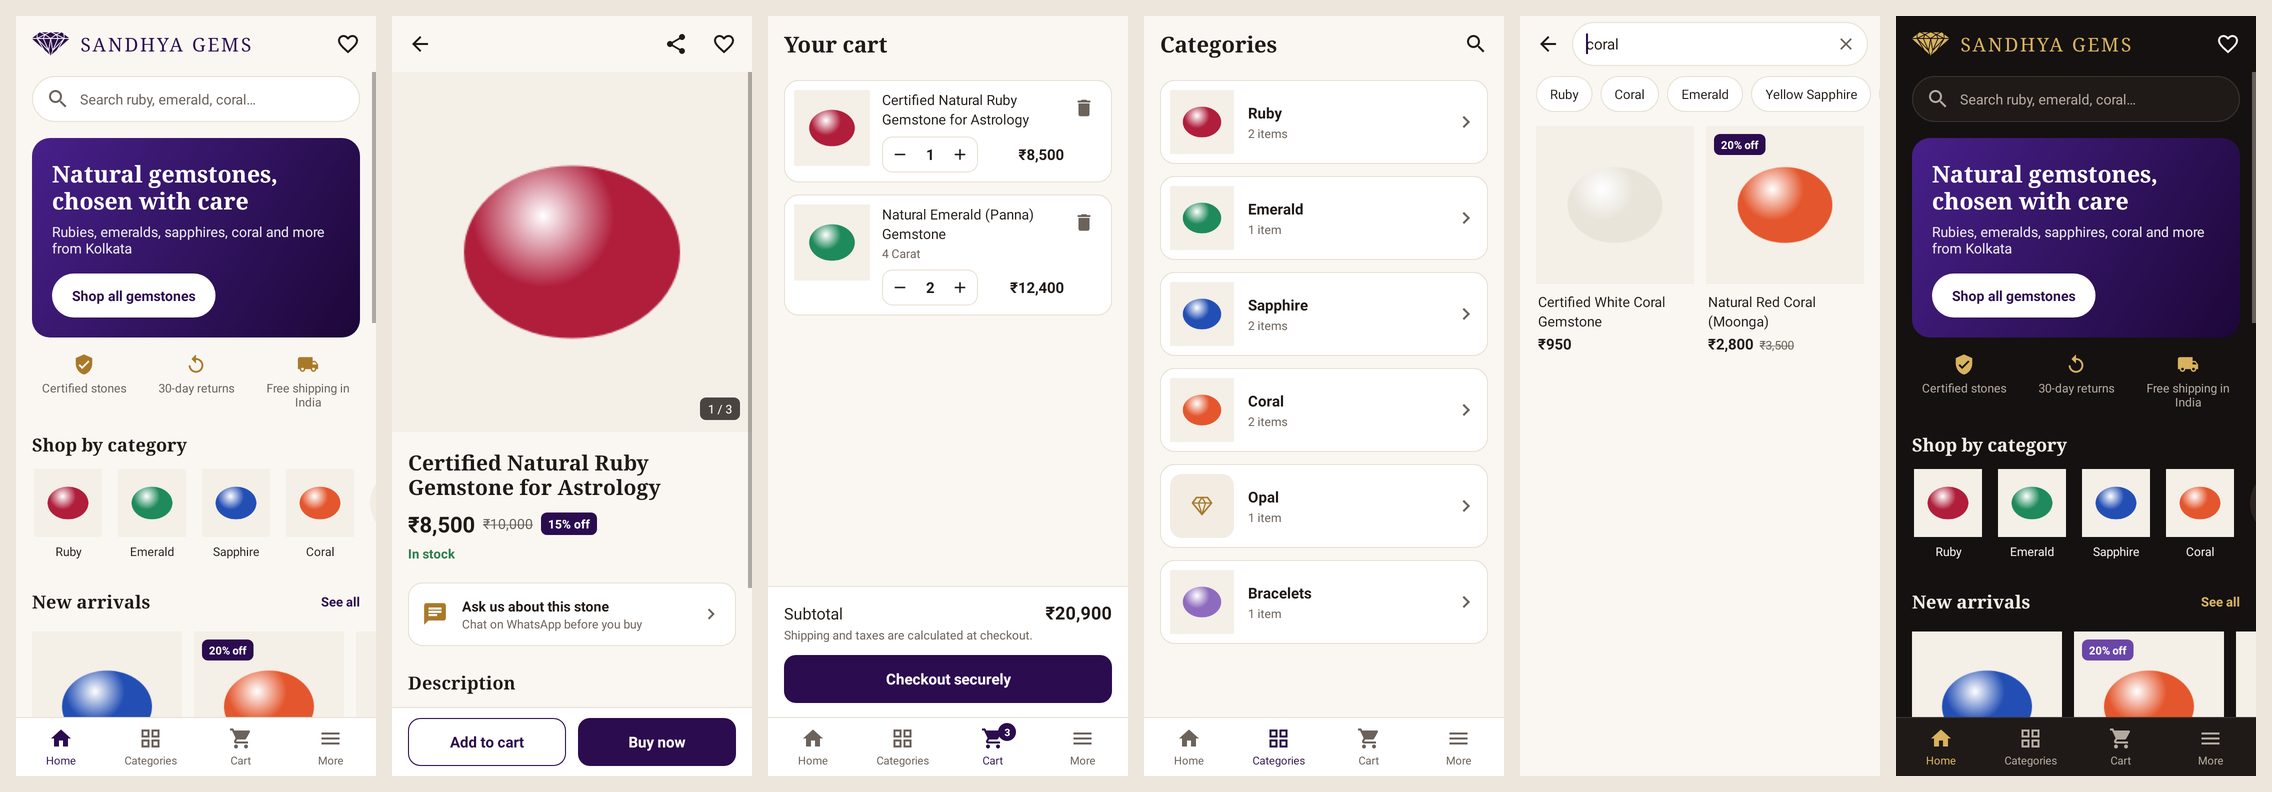
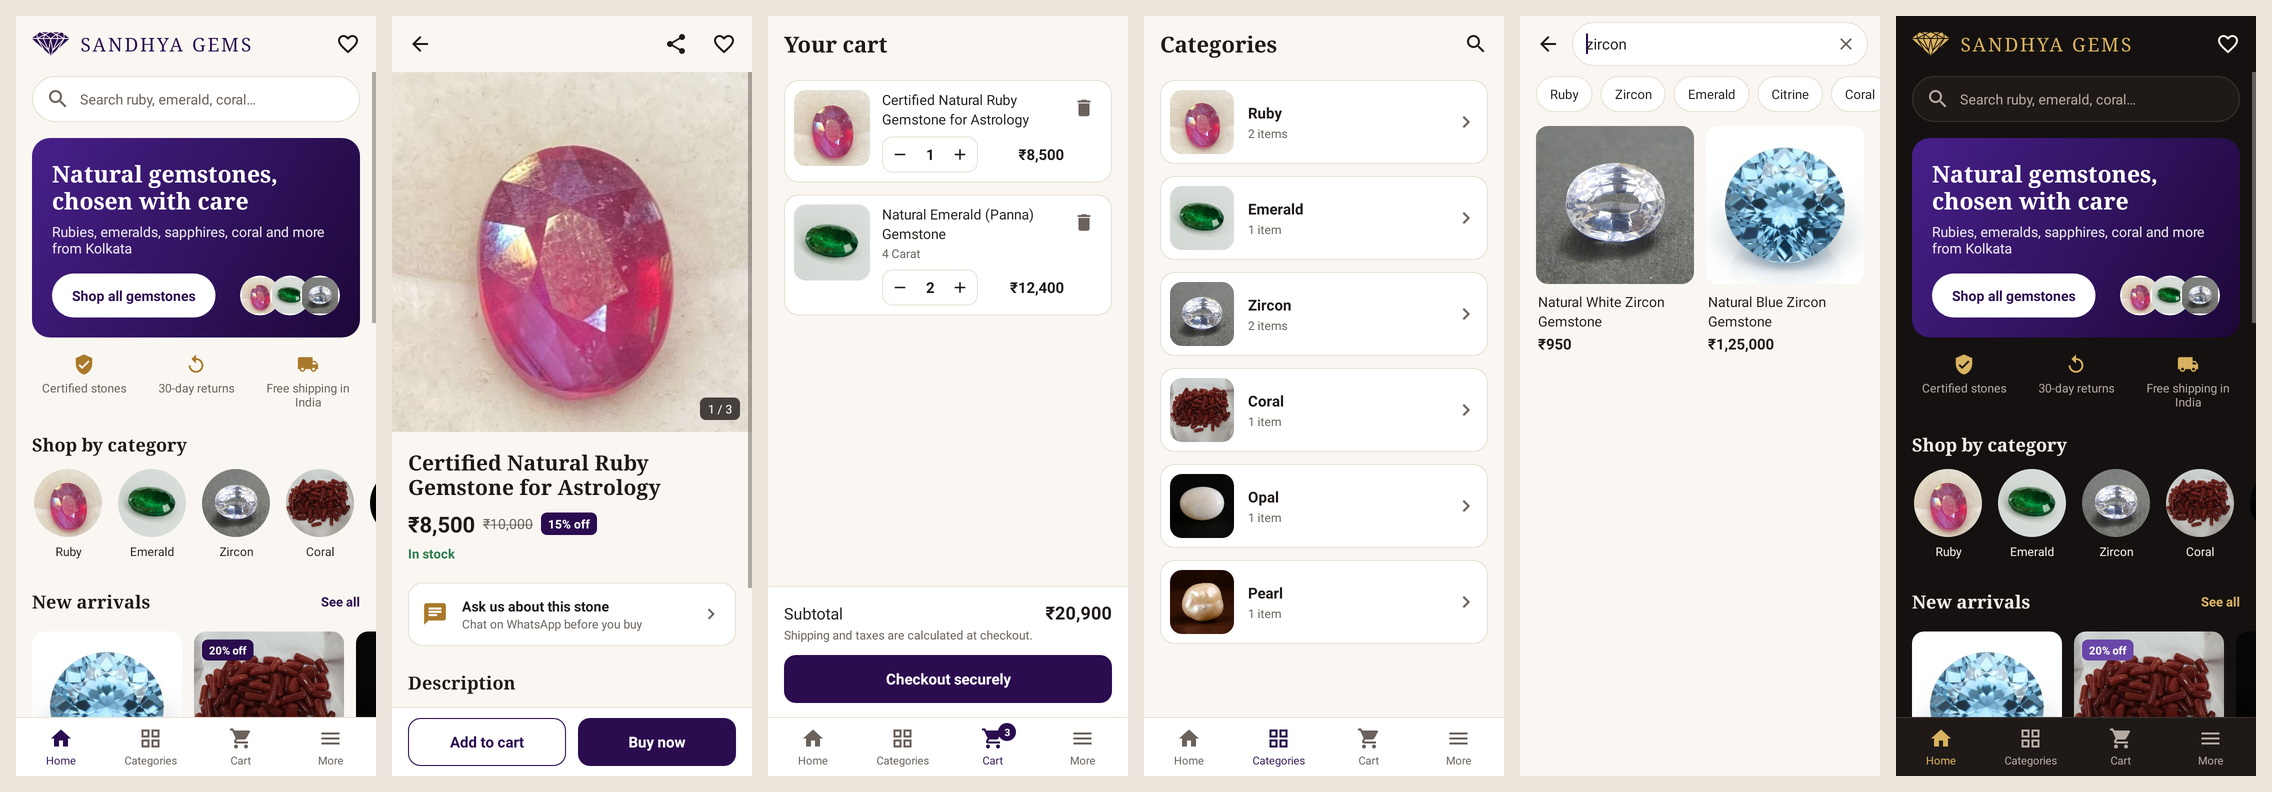
Use Sandhya Gems' own photos and shop details in the app
- Ten of the shop's gemstone photos are built in (30 KB): shown on the
  home banner and for categories that have no picture in the store
- Sample store data and screen previews now use the real photos
- Screen pictures are rendered with the Android hardware renderer

Claude-Session: https://claude.ai/code/session_01EzSiEKk614zkNHB9RZEt3y

diff --git a/sandhya-gems-android/app/src/test/java/com/sandhyagems/app/UiTest.kt b/sandhya-gems-android/app/src/test/java/com/sandhyagems/app/UiTest.kt
@@ -3,13 +3,12 @@ package com.sandhyagems.app
 import android.app.Activity
 import android.content.Intent
 import android.graphics.Bitmap
+import android.graphics.BitmapFactory
 import android.graphics.Canvas
-import android.graphics.Color
-import android.graphics.Paint
-import android.graphics.RadialGradient
-import android.graphics.Shader
 import android.net.Uri
+import android.os.Handler
 import android.os.Looper
+import android.view.PixelCopy
 import android.view.View
 import android.widget.TextView
 import androidx.recyclerview.widget.RecyclerView
@@ -93,36 +92,33 @@ class UiTest {
         idle()
         val decor = activity.window.decorView
         val bitmap = Bitmap.createBitmap(decor.width, decor.height, Bitmap.Config.ARGB_8888)
-        decor.draw(Canvas(bitmap))
+        // Render the way a phone does (rounded photos, shadows); fall back to plain drawing.
+        var result = -1
+        try {
+            PixelCopy.request(activity.window, bitmap, { result = it }, Handler(Looper.getMainLooper()))
+            idle()
+        } catch (e: Throwable) {
+            result = -1
+        }
+        if (result != PixelCopy.SUCCESS) decor.draw(Canvas(bitmap))
         val dir = File("build/screenshots").apply { mkdirs() }
         File(dir, "$name.png").outputStream().use { bitmap.compress(Bitmap.CompressFormat.PNG, 100, it) }
     }
 
-    /** A stand-in product photo: a soft glow in a colour picked from the file name. */
-    private fun gemPicture(url: String): Bitmap {
-        val colour = when {
-            "ruby" in url -> 0xFFB01E3C
-            "emerald" in url -> 0xFF1F8A5B
-            "yellow" in url || "citrine" in url -> 0xFFE0A91B
-            "blue" in url || "sapphire" in url -> 0xFF234FB5
-            "white" in url -> 0xFFE9E4DA
-            "coral" in url -> 0xFFE4572E
-            "opal" in url -> 0xFF8FD3D0
-            "cats" in url -> 0xFF9A8F3C
-            else -> 0xFF8E6BBF
-        }.toInt()
-        val size = 240
-        val bitmap = Bitmap.createBitmap(size, size, Bitmap.Config.ARGB_8888)
-        val canvas = Canvas(bitmap)
-        canvas.drawColor(0xFFF4EFE7.toInt())
-        val paint = Paint(Paint.ANTI_ALIAS_FLAG)
-        paint.shader = RadialGradient(
-            size * 0.42f, size * 0.4f, size * 0.36f,
-            intArrayOf(Color.WHITE, colour, colour), floatArrayOf(0f, 0.55f, 1f), Shader.TileMode.CLAMP,
-        )
-        canvas.drawOval(size * 0.2f, size * 0.26f, size * 0.8f, size * 0.74f, paint)
-        return bitmap
+    /**
+     * Stands in for the network: answers each picture request with one of
+     * Sandhya Gems' own photographs, chosen by the stone named in the address.
+     */
+    private fun gemPicture(url: String): Bitmap? {
+        val name = listOf("blue-zircon" to "blue_zircon", "zircon" to "zircon", "ruby" to "ruby", "emerald" to "emerald",
+            "citrine" to "citrine", "coral" to "coral", "gomed" to "gomed", "opal" to "opal", "pearl" to "pearl")
+            .firstOrNull { it.first in url }?.second ?: return null
+        return photos.getOrPut(name) {
+            javaClass.classLoader!!.getResourceAsStream("photos/$name.jpg")!!.use(BitmapFactory::decodeStream)
+        }
     }
+
+    private val photos = HashMap<String, Bitmap>()
 
     // ------------------------------------------------------------ home and tabs
 
@@ -157,6 +153,15 @@ class UiTest {
         assertEquals("Personal consultation online, ₹499", text(main, R.id.home_consult_text))
         main.findViewById<View>(R.id.home_consult).performClick()
         assertEquals("astrology-consultation", nextStarted(main)!!.getStringExtra("handle"))
+    }
+
+    @Test
+    fun categoryWithoutAStorePictureGetsOurOwnPhoto() {
+        assertEquals(R.drawable.gem_opal, com.sandhyagems.app.ui.CategoryArt.forTitle("Opal"))
+        assertEquals(R.drawable.gem_ruby, com.sandhyagems.app.ui.CategoryArt.forTitle("Natural Ruby (Manik)"))
+        assertEquals(R.drawable.gem_blue_zircon, com.sandhyagems.app.ui.CategoryArt.forTitle("Blue Zircon"))
+        assertEquals(R.drawable.gem_zircon, com.sandhyagems.app.ui.CategoryArt.forTitle("White Zircon"))
+        assertNull(com.sandhyagems.app.ui.CategoryArt.forTitle("Best sellers"))
     }
 
     @Test
@@ -286,7 +291,7 @@ class UiTest {
         val list = search.findViewById<RecyclerView>(R.id.list)
         assertEquals(10, list.adapter!!.itemCount)
 
-        search.findViewById<TextView>(R.id.search_input).text = "coral"
+        search.findViewById<TextView>(R.id.search_input).text = "zircon"
         idle()
         assertEquals(2, list.adapter!!.itemCount)
         snap(search, "09-search")

diff --git a/sandhya-gems-android/app/src/main/java/com/sandhyagems/app/ui/Adapters.kt b/sandhya-gems-android/app/src/main/java/com/sandhyagems/app/ui/Adapters.kt
@@ -110,14 +110,18 @@ class CategoryAdapter(
         val context = holder.itemView.context
         holder.title.text = collection.title
         ImageLoader.load(holder.image, collection.image, context.dp(72))
+        holder.image.clearColorFilter()
+        holder.image.scaleType = ImageView.ScaleType.CENTER_CROP
         if (collection.image == null) {
-            // No photo set in the store: show the gem mark instead of an empty circle.
-            holder.image.setImageResource(R.drawable.ic_gem)
-            holder.image.setColorFilter(context.getColor(R.color.gold))
-            holder.image.scaleType = ImageView.ScaleType.CENTER_INSIDE
-        } else {
-            holder.image.clearColorFilter()
-            holder.image.scaleType = ImageView.ScaleType.CENTER_CROP
+            // No picture set in the store: use our own photo of that stone, else the gem mark.
+            val photo = CategoryArt.forTitle(collection.title)
+            if (photo != null) {
+                holder.image.setImageResource(photo)
+            } else {
+                holder.image.setImageResource(R.drawable.ic_gem)
+                holder.image.setColorFilter(context.getColor(R.color.gold))
+                holder.image.scaleType = ImageView.ScaleType.CENTER_INSIDE
+            }
         }
         holder.count?.let { count ->
             count.show(collection.productsCount > 0)

diff --git a/sandhya-gems-android/app/src/main/java/com/sandhyagems/app/ui/CategoryArt.kt b/sandhya-gems-android/app/src/main/java/com/sandhyagems/app/ui/CategoryArt.kt
@@ -1,0 +1,30 @@
+package com.sandhyagems.app.ui
+
+import com.sandhyagems.app.R
+
+/**
+ * Sandhya Gems' own photographs, built into the app. They are shown for a
+ * category that has no picture set in the store, so no category is ever blank.
+ * Product photos themselves always come live from the store.
+ */
+object CategoryArt {
+    // Checked in order, so "blue zircon" must come before "zircon".
+    private val photos = listOf(
+        listOf("ruby", "manik") to R.drawable.gem_ruby,
+        listOf("emerald", "panna") to R.drawable.gem_emerald,
+        listOf("coral", "moonga") to R.drawable.gem_coral,
+        listOf("blue zircon") to R.drawable.gem_blue_zircon,
+        listOf("zircon") to R.drawable.gem_zircon,
+        listOf("gomed", "hessonite") to R.drawable.gem_gomed,
+        listOf("opal") to R.drawable.gem_opal,
+        listOf("pearl", "moti") to R.drawable.gem_pearl,
+        listOf("amethyst") to R.drawable.gem_amethyst,
+        listOf("citrine", "sunela") to R.drawable.gem_citrine,
+    )
+
+    /** The photo for a category name such as "Natural Ruby (Manik)", or null if none fits. */
+    fun forTitle(title: String): Int? {
+        val name = title.lowercase()
+        return photos.firstOrNull { (words, _) -> words.any { it in name } }?.second
+    }
+}

diff --git a/sandhya-gems-android/app/src/test/java/com/sandhyagems/app/DataTest.kt b/sandhya-gems-android/app/src/test/java/com/sandhyagems/app/DataTest.kt
@@ -74,7 +74,7 @@ class DataTest {
     @Test
     fun tagsGivenAsCommaTextAreSplit() {
         val blue = sampleProducts().first { it.handle == "blue-sapphire-neelam" }
-        assertEquals(listOf("sapphire", "neelam", "saturn"), blue.tags)
+        assertEquals(listOf("zircon", "blue zircon", "venus"), blue.tags)
     }
 
     @Test
@@ -170,7 +170,8 @@ class DataTest {
             Catalog.search(all, "ruby").map { it.handle }.toSet(),
         )
         assertEquals(listOf("natural-emerald-panna"), Catalog.search(all, "PANNA").map { it.handle })
-        assertEquals(2, Catalog.search(all, "coral").size)
+        assertEquals(1, Catalog.search(all, "coral").size)
+        assertEquals(2, Catalog.search(all, "zircon").size)
         assertEquals(listOf("red-coral-moonga"), Catalog.search(all, "red coral").map { it.handle })
         assertEquals(listOf("ysapph"), Catalog.search(all, "jupiter").map { it.handle })
         assertTrue(Catalog.search(all, "diamond").isEmpty())

diff --git a/sandhya-gems-android/app/src/main/java/com/sandhyagems/app/ui/Screens.kt b/sandhya-gems-android/app/src/main/java/com/sandhyagems/app/ui/Screens.kt
@@ -48,6 +48,14 @@ class HomeScreen(a: MainActivity) : Screen(a, R.layout.screen_home) {
         }
         view.findViewById<View>(R.id.home_call).setOnClickListener { Links.call(a) }
 
+        // Round off the three stone photos on the banner.
+        intArrayOf(R.id.hero_gem_1, R.id.hero_gem_2, R.id.hero_gem_3).forEach {
+            view.findViewById<ImageView>(it).apply {
+                clipToOutline = true
+                cropToPadding = true
+            }
+        }
+
         trust(R.id.trust_1, R.drawable.ic_verified, R.string.trust_certified)
         trust(R.id.trust_2, R.drawable.ic_returns, R.string.trust_returns)
         trust(R.id.trust_3, R.drawable.ic_shipping, R.string.trust_shipping)

diff --git a/sandhya-gems-android/README.md b/sandhya-gems-android/README.md
@@ -6,7 +6,7 @@ own checkout.
 
 ![Screens](docs/screens.png)
 
-*Screens above use sample data, not the live catalogue.*
+*The photos above are Sandhya Gems' own; the product names and prices are sample data, not the live catalogue.*
 
 ## What it does
 
@@ -23,7 +23,7 @@ own checkout.
 
 ## Why it is light
 
-- The release APK is about **290 KB**.
+- The release APK is about **310 KB**.
 - No Firebase, no analytics SDK, no ad SDK. The only permission is Internet.
 - Product photos are requested at the size of the screen, not full size, and cached.
 - The catalogue is saved on the phone, so the app opens instantly on later launches.
@@ -57,6 +57,10 @@ store's normal checkout with the chosen items. The app never sees payment detail
    `app/src/main/res/values/colors.xml` (and `values-night` for dark mode).
 8. **App icon** is the diamond from the Sandhya Gems logo
    (`res/drawable-xxxhdpi/ic_launcher_foreground.png`).
+9. **Built-in gemstone photos** (`res/drawable-nodpi/gem_*.webp`) are the shop's own
+   pictures. They appear on the home banner and for any category that has no picture
+   set in Shopify (matched by name in `ui/CategoryArt.kt`). Product photos always come
+   live from the store.
 
 ## Build
 
